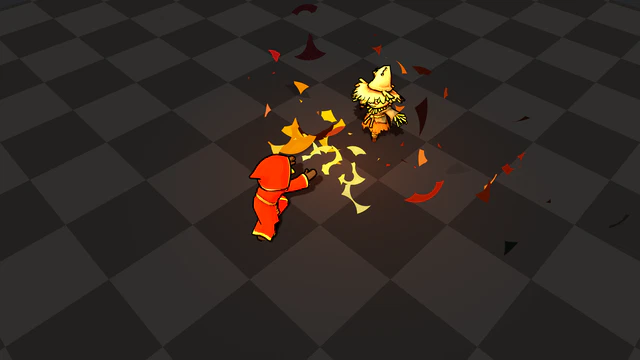
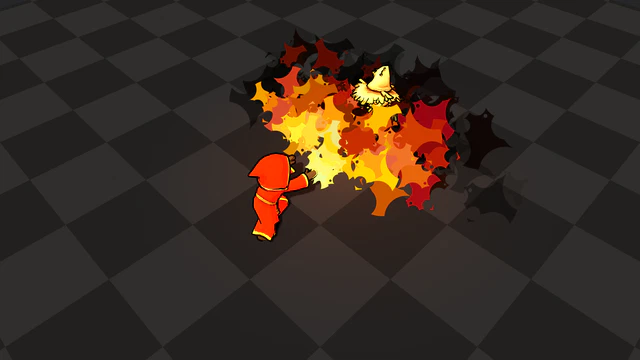
Refactor Godot web export process to simplify directory structure and improve asset handling. Update export paths and integrate gzip compression for assets. Enhance flame breath effect with new sprite handling and shader adjustments. Adjust capture timing for better performance.

diff --git a/tools/gzip_fetch.js b/tools/gzip_fetch.js
@@ -1,0 +1,53 @@
+(function () {
+  if (window.__vfxGzipFetch) {
+    return;
+  }
+  window.__vfxGzipFetch = true;
+  if (typeof DecompressionStream === "undefined") {
+    return;
+  }
+
+  var originalFetch = window.fetch.bind(window);
+
+  function requestUrl(input) {
+    if (typeof input === "string") {
+      return input;
+    }
+    if (input instanceof URL) {
+      return input.href;
+    }
+    return input.url;
+  }
+
+  window.fetch = async function (input, init) {
+    var url = requestUrl(input).split("?")[0];
+    if (!/\.(wasm|pck)$/i.test(url)) {
+      return originalFetch(input, init);
+    }
+
+    var gzInit = Object.assign({}, init || {}, { method: "GET" });
+    if (gzInit.headers) {
+      var headers = new Headers(gzInit.headers);
+      headers.delete("Range");
+      headers.delete("range");
+      gzInit.headers = headers;
+    }
+
+    var compressed = await originalFetch(url + ".gz", gzInit);
+    if (compressed.ok && compressed.body) {
+      var raw = await new Response(
+        compressed.body.pipeThrough(new DecompressionStream("gzip"))
+      ).arrayBuffer();
+      return new Response(raw, {
+        status: 200,
+        headers: {
+          "Content-Type": url.endsWith(".wasm")
+            ? "application/wasm"
+            : "application/octet-stream",
+          "Content-Length": String(raw.byteLength),
+        },
+      });
+    }
+    return originalFetch(input, init);
+  };
+})();
